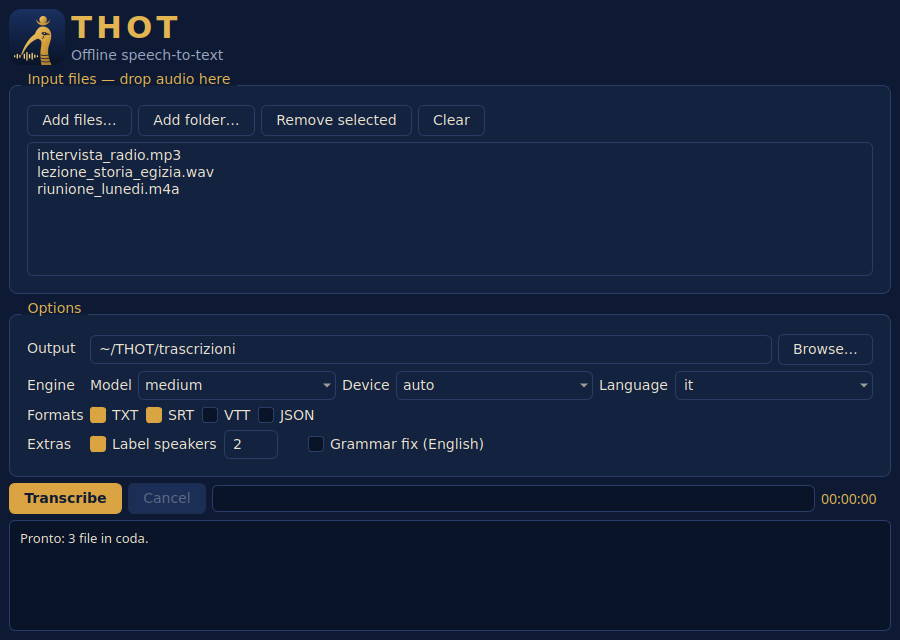
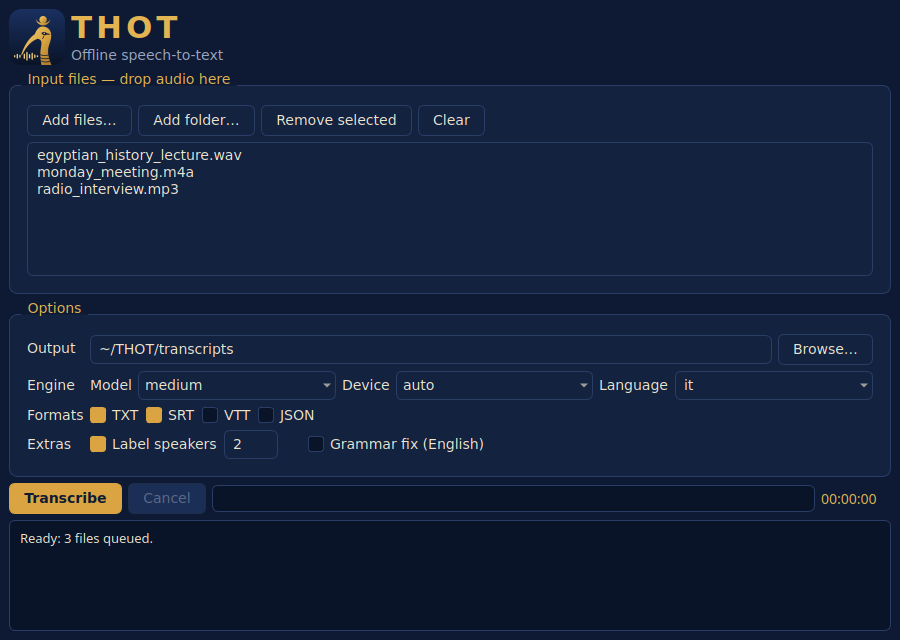
Translate README and screenshot to English

Changed region(s): [[0.0311, 0.2188, 0.28, 0.3125], [0.0311, 0.8125, 0.1556, 0.875], [0.1867, 0.5312, 0.28, 0.5625]]

diff --git a/README.md b/README.md
@@ -4,103 +4,103 @@
 
 <h1 align="center">THOT</h1>
 
-<p align="center"><em>Trascrizione vocale offline — dal suono alla scrittura.</em></p>
+<p align="center"><em>Offline speech-to-text — from sound to writing.</em></p>
 
-Thot, dio egizio dalla testa di ibis, era lo scriba degli dèi: ascoltava e metteva per iscritto.
-**THOT** fa lo stesso con i tuoi file audio, interamente in locale.
+Thoth, the ibis-headed Egyptian god, was the scribe of the gods: he listened and put words into writing.
+**THOT** does the same with your audio files, entirely on your machine.
 
-- **Trascrizione batch** di file e cartelle con [faster-whisper](https://github.com/SYSTRAN/faster-whisper) (CPU o GPU CUDA)
-- **Riconoscimento parlanti** leggero (MFCC + clustering), etichette coerenti su tutto il file
-- **Uscite** `txt`, `srt`, `vtt`, `json`
-- **Dettatura live** dal microfono con [Vosk](https://alphacephei.com/vosk/)
-- **Interfaccia grafica** PyQt5 con drag & drop, avanzamento, annullamento
-- **Correzione grammaticale** opzionale (modello T5, solo inglese)
+- **Batch transcription** of files and folders with [faster-whisper](https://github.com/SYSTRAN/faster-whisper) (CPU or CUDA GPU)
+- **Lightweight speaker labelling** (MFCC + clustering), consistent across the whole file
+- **Outputs** `txt`, `srt`, `vtt`, `json`
+- **Live dictation** from the microphone with [Vosk](https://alphacephei.com/vosk/)
+- **Desktop GUI** (PyQt5) with drag & drop, progress and cancellation
+- **Optional grammar correction** (T5 model, English only)
 
-## Installazione
+## Installation
 
-Requisiti: Python ≥ 3.9. FFmpeg di sistema non è necessario (la decodifica usa PyAV).
+Requires Python ≥ 3.9. A system FFmpeg is not needed (decoding uses PyAV).
 
 ```bash
 git clone https://github.com/gc10code/thot.git
 cd thot
-scripts/install.sh            # crea .venv e installa con GUI + live
+scripts/install.sh            # creates .venv and installs with GUI + live extras
 source .venv/bin/activate
 ```
 
-Su Windows: `scripts\install.bat`. Installazione manuale con gli extra desiderati:
+On Windows: `scripts\install.bat`. Manual install with the extras you need:
 
 ```bash
-pip install -e ".[gui,live]"      # extra: gui, live, grammar, all, dev
+pip install -e ".[gui,live]"      # extras: gui, live, grammar, all, dev
 ```
 
-## Uso
+## Usage
 
-### Trascrizione
+### Transcription
 
 ```bash
-thot transcribe intervista.mp3                       # → transcripts/intervista.txt
-thot transcribe registrazioni/ -o out -f srt -f txt  # intera cartella, più formati
-thot transcribe riunione.m4a -s 3 -m medium          # 3 parlanti, modello medium
-thot transcribe talk.mp4 -l auto -d cuda             # lingua automatica, GPU
+thot transcribe interview.mp3                     # → transcripts/interview.txt
+thot transcribe recordings/ -o out -f srt -f txt  # whole folder, several formats
+thot transcribe meeting.m4a -s 3 -m medium        # 3 speakers, medium model
+thot transcribe talk.mp4 -l auto -d cuda          # auto-detect language, GPU
 ```
 
-| Opzione | Descrizione | Default |
+| Option | Description | Default |
 |---|---|---|
-| `-o, --output` | cartella di uscita | `transcripts` |
+| `-o, --output` | output folder | `transcripts` |
 | `-m, --model` | `tiny` `base` `small` `medium` `large-v3` `turbo` | `small` |
-| `-l, --language` | codice lingua (`it`, `en`, …) o `auto` | `it` |
+| `-l, --language` | language code (`it`, `en`, …) or `auto` | `it` |
 | `-d, --device` | `auto` `cpu` `cuda` | `auto` |
-| `-f, --format` | `txt` `srt` `vtt` `json` (ripetibile) | `txt` |
-| `-s, --speakers N` | etichetta N parlanti (0 = disattivo) | `0` |
-| `-g, --grammar` | correzione grammaticale T5 (inglese) | off |
-| `-r, --recursive` | cerca nelle sottocartelle | off |
-| `--no-vad` | disattiva il filtro di attività vocale | — |
+| `-f, --format` | `txt` `srt` `vtt` `json` (repeatable) | `txt` |
+| `-s, --speakers N` | label N speakers (0 = off) | `0` |
+| `-g, --grammar` | T5 grammar correction (English) | off |
+| `-r, --recursive` | search subfolders | off |
+| `--no-vad` | disable voice-activity filtering | — |
 
-I modelli Whisper vengono scaricati automaticamente al primo uso.
+Whisper models are downloaded automatically on first use.
 
-### Interfaccia grafica
+### Desktop GUI
 
 ```bash
-thot gui        # oppure: thot-gui
+thot gui        # or: thot-gui
 ```
 
 <p align="center"><img src="assets/screenshot.png" width="640" alt="THOT GUI"></p>
 
-### Dettatura live
+### Live dictation
 
 ```bash
-scripts/download_vosk_model.sh        # modello italiano piccolo (48 MB) in models/
-thot live                             # parla; Ctrl+C per terminare
-thot live -o appunti.txt -i 2         # salva su file, usa il dispositivo d'ingresso 2
+scripts/download_vosk_model.sh        # small Italian model (48 MB) into models/
+thot live                             # speak; Ctrl+C to stop
+thot live -o notes.txt -i 2           # also save to a file, use input device 2
 thot live --list-devices
 ```
 
-Il modello si sceglie con `-M <cartella>` o con la variabile `THOT_VOSK_MODEL`. Vedi [models/README.md](models/README.md).
+Pick a model with `-M <folder>` or the `THOT_VOSK_MODEL` environment variable. See [models/README.md](models/README.md).
 
-## Struttura
+## Project layout
 
 ```
 src/thot/
-├── config.py            costanti ed enum condivisi
-├── core/                motore, senza dipendenze da interfaccia
-│   ├── audio.py         decodifica (PyAV) e ricerca file
-│   ├── transcriber.py   pipeline Whisper con progresso e annullamento
-│   ├── diarization.py   etichettatura parlanti
-│   ├── grammar.py       correzione T5 (caricata solo se usata)
+├── config.py            shared constants and enums
+├── core/                engine, no UI dependencies
+│   ├── audio.py         decoding (PyAV) and file discovery
+│   ├── transcriber.py   Whisper pipeline with progress and cancellation
+│   ├── diarization.py   speaker labelling
+│   ├── grammar.py       T5 correction (loaded only when used)
 │   ├── formatters.py    txt / srt / vtt / json
 │   └── models.py        Segment, Transcript
 ├── cli/                 `thot transcribe | live | gui`
-├── gui/                 finestra PyQt5 e worker in thread separato
-└── resources/           icona e foglio di stile
+├── gui/                 PyQt5 window and background worker thread
+└── resources/           icon and stylesheet
 ```
 
-## Sviluppo
+## Development
 
 ```bash
 pip install -e ".[dev]"
 pytest
 ```
 
-## Licenza
+## License
 
 [MIT](LICENSE)
